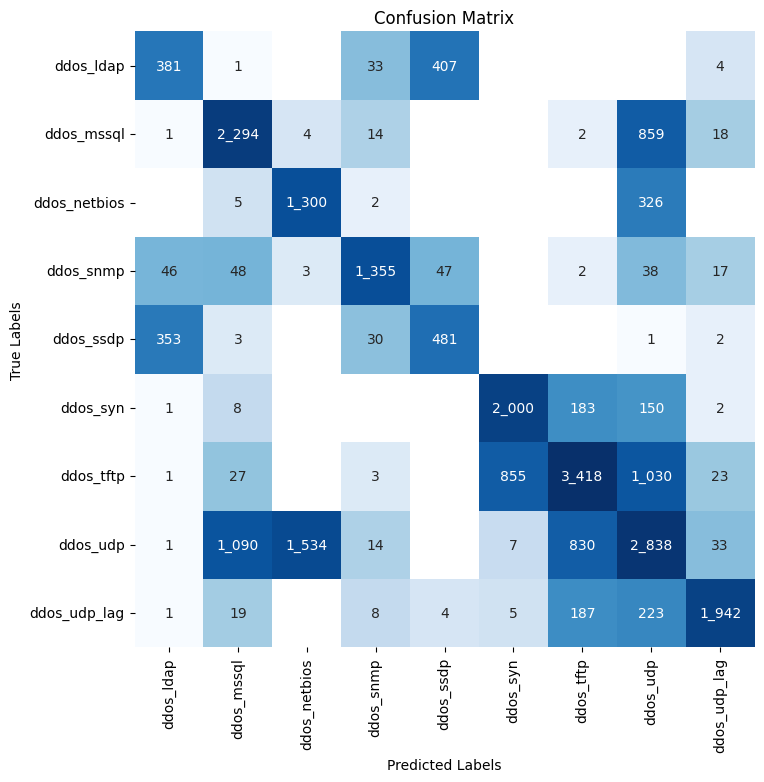
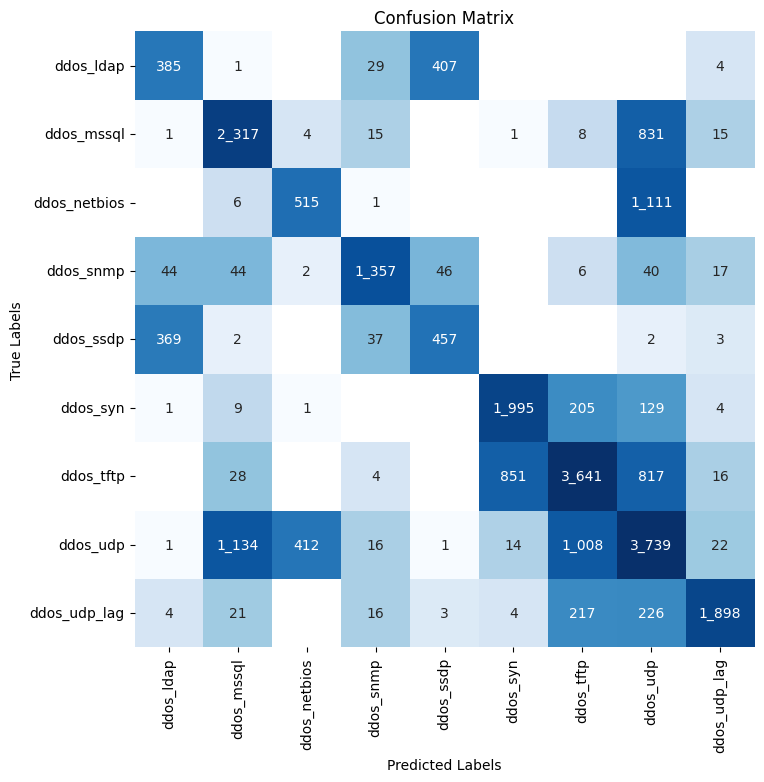
try dropping benigns before combining tags

diff --git a/report/practical_framework/ml_with_tool_assigned_tags_table.tex b/report/practical_framework/ml_with_tool_assigned_tags_table.tex
@@ -3,7 +3,7 @@
         \begin{tabular}{|c | r r r | c |}
             \hline
             \textbf{Etiqueta}               & \textbf{CIC-DDoS2019}            & \textbf{Bot-IoT}            & \textbf{TON-IoT}            &        \textbf{Total} \\  \hline
-benign & 221 383 (0.458\%) & 15 747 (0.259\%) & 23 431 586 (86.765\%) & 23 668 716 (29.052\%) \\
+benign & 221 118 (0.457\%) & 15 747 (0.259\%) & 23 431 586 (86.765\%) & 23 668 451 (29.052\%) \\
 backdoor & 0 (0.000\%) & 0 (0.000\%) & 16 979 (0.063\%) & 16 979 (0.021\%) \\
 ddos & 0 (0.000\%) & 0 (0.000\%) & 459 197 (1.700\%) & 459 197 (0.564\%) \\
 ddos\_dns & 483 (0.001\%) & 0 (0.000\%) & 0 (0.000\%) & 483 (0.001\%) \\
@@ -18,8 +18,8 @@ ddos\_ssdp & 1 739 339 (3.595\%) & 0 (0.000\%) & 0 (0.000\%) & 1 739 339 (2.135\
 ddos\_syn & 4 688 934 (9.691\%) & 0 (0.000\%) & 0 (0.000\%) & 4 688 934 (5.755\%) \\
 ddos\_tcp & 0 (0.000\%) & 1 048 417 (17.250\%) & 0 (0.000\%) & 1 048 417 (1.287\%) \\
 ddos\_tftp & 10 714 452 (22.144\%) & 0 (0.000\%) & 0 (0.000\%) & 10 714 452 (13.152\%) \\
-ddos\_udp & 11 645 152 (24.067\%) & 1 048 576 (17.253\%) & 0 (0.000\%) & 12 693 728 (15.581\%) \\
-ddos\_udp\_lag & 4 776 984 (9.873\%) & 0 (0.000\%) & 0 (0.000\%) & 4 776 984 (5.864\%) \\
+ddos\_udp & 11 645 151 (24.067\%) & 1 048 576 (17.253\%) & 0 (0.000\%) & 12 693 727 (15.581\%) \\
+ddos\_udp\_lag & 4 777 250 (9.873\%) & 0 (0.000\%) & 0 (0.000\%) & 4 777 250 (5.864\%) \\
 dos & 0 (0.000\%) & 0 (0.000\%) & 6 696 (0.025\%) & 6 696 (0.008\%) \\
 dos\_http & 0 (0.000\%) & 29 139 (0.479\%) & 0 (0.000\%) & 29 139 (0.036\%) \\
 dos\_tcp & 0 (0.000\%) & 1 048 520 (17.252\%) & 0 (0.000\%) & 1 048 520 (1.287\%) \\

diff --git a/scripts/extract_ground_truth_from_datasets.py b/scripts/extract_ground_truth_from_datasets.py
@@ -198,6 +198,11 @@ def extract(name, get_dataframe, result_path):
     df = df.sort_values(by=['timestamp_micro_start', 'timestamp_micro_end'], ignore_index=True)
     gc.collect()
 
+    # Discard the benign tags
+    print(f"Discarding benign values")
+    df = df.drop(df[df.label == 'benign'].index).reset_index(drop=True)
+    gc.collect()
+
     # Combine values
     print(f"Combining tags")
     df = combine(df)
@@ -206,11 +211,6 @@ def extract(name, get_dataframe, result_path):
     # Remove overlaps if there are any remaining
     print(f"Force removing overlaps")
     df = force_remove_overlaps(df)
-    gc.collect()
-
-    # Discard the benign tags
-    print(f"Discarding benign values")
-    df = df.drop(df[df.label == 'benign'].index).reset_index(drop=True)
     gc.collect()
 
     # Store results
